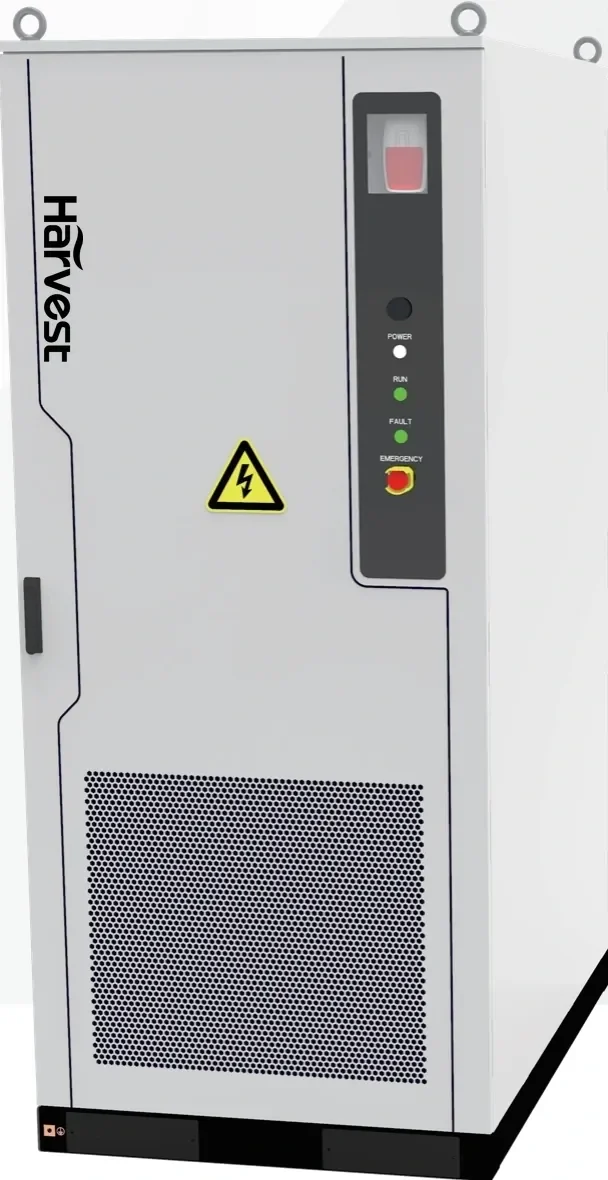
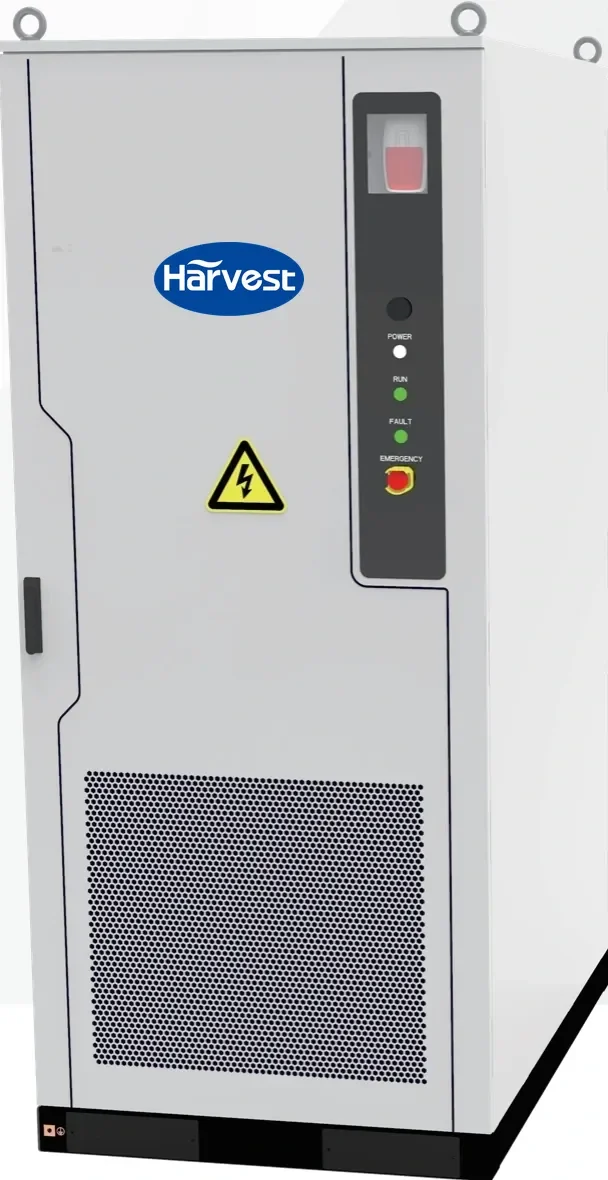
Rename ESS to BESS, name the group in full, and use the oval badge
Four changes asked for together.

The catalogue and every visible "ESS" now reads "BESS": the nav submenu and page
eyebrow ("BESS & Storage"), the products overview category, the contact form's
requirement list, the home page's ESS banner title, the route's own title and
description, and the meta description, keywords, og:description and structured
data in index.html. Where the old wording read "ESS storage", the replacement is
plain "BESS" rather than "BESS storage", which would expand to "Battery Energy
Storage System storage".

The storage page's group heading is now spelled out — "Battery Energy Storage
System", with the equivalent in Spanish and French — instead of "Energy storage".

The three product photographs carry the oval badge from the header instead of
the wordmark, and two of them moved: on the portable station it is now on the
front, centred in the black area above the display (that area is the ventilation
grille, hence the preview before choosing), and on the commercial cabinet it is
horizontal on the door, centred between the two black door lines and at the
height the old vertical wordmark occupied. The home battery keeps its position
below the round display. _tools/place-mark.py grew the mode this needed: a
designed mark in its own colours at an explicit --width, with no window to
measure. Fixing that also fixed a real bug in it — --at and --top together
silently placed the mark at the top of the photograph, because only one of the
[…]

Changed region(s): [[0.25, 0.1831, 0.5, 0.2746], [0.0625, 0.1525, 0.1562, 0.3051]]

diff --git a/src/lib/siteContent.ts b/src/lib/siteContent.ts
@@ -121,8 +121,8 @@ export const content = {
       capabilities: "Company capabilities",
       timeline: "Company timeline and service model",
       aiControl: "AI smart control solution for energy saving products",
-      essSection: "Energy storage systems",
-      essVisual: "Portable power bank and home energy storage system",
+      essSection: "Battery energy storage systems",
+      essVisual: "Portable power station, home battery and commercial storage cabinet",
       contactDetails: "Company contact details",
       pageVisual: "Harvest Eco Solutions clean energy visual",
     },
@@ -177,7 +177,7 @@ export const content = {
       eyebrow: "Products & Solutions",
       solarEyebrow: "Solar Systems",
       aiEyebrow: "AI Intelligence",
-      essTitle: "ESS for portable, residential and commercial energy storage",
+      essTitle: "BESS for portable, residential and commercial energy storage",
       essText: "Portable stations, home batteries and all-in-one cabinets that complement solar generation, remote control and energy independence.",
       title: "Products and intelligent energy solutions",
       subtitle:
@@ -217,7 +217,7 @@ export const content = {
           ],
         },
         {
-          group: "ESS",
+          group: "BESS",
           href: "/products/ess/",
           items: [
             { label: "Portable power stations", href: "/products/ess/" },
@@ -246,7 +246,7 @@ export const content = {
       subtitle: "Tell us about your market, product requirement or project scope. Our team will respond with a practical next step.",
       formTitle: "Request information",
       fields: { name: "Full name", email: "Business email", company: "Company", country: "Country / Region", type: "Requirement type", message: "Project details" },
-      options: ["Solar module sourcing", "Inverters", "ESS / Storage", "AI smart control", "Custom solution", "Other"],
+      options: ["Solar module sourcing", "Inverters", "BESS / Storage", "AI smart control", "Custom solution", "Other"],
       send: "Send inquiry",
       sending: "Sending...",
       error: "We could not submit the inquiry right now. Please try again or contact us via WhatsApp.",
@@ -280,8 +280,8 @@ export const content = {
       capabilities: "Capacidades de la empresa",
       timeline: "Cronología de la empresa y modelo de servicio",
       aiControl: "Solución de control inteligente con IA para productos de ahorro energético",
-      essSection: "Sistemas de almacenamiento de energía",
-      essVisual: "Batería portátil y sistema doméstico de almacenamiento de energía",
+      essSection: "Sistemas de almacenamiento de energía con baterías",
+      essVisual: "Estación de energía portátil, batería doméstica y armario de almacenamiento comercial",
       contactDetails: "Datos de contacto de la empresa",
       pageVisual: "Imagen de energía limpia de Harvest Eco Solutions",
     },
@@ -335,7 +335,7 @@ export const content = {
       eyebrow: "Productos y soluciones",
       solarEyebrow: "Sistemas solares",
       aiEyebrow: "Inteligencia IA",
-      essTitle: "ESS para almacenamiento energético portátil, residencial y comercial",
+      essTitle: "BESS para almacenamiento energético portátil, residencial y comercial",
       essText: "Estaciones portátiles, baterías domésticas y armarios todo en uno que complementan la generación solar, el control remoto y la independencia energética.",
       title: "Productos y soluciones energéticas inteligentes",
       subtitle: "Una cartera enfocada en generación solar, inversores, almacenamiento compacto, accesorios e inteligencia de control con IA.",
@@ -359,7 +359,7 @@ export const content = {
           ],
         },
         {
-          group: "ESS",
+          group: "BESS",
           href: "/products/ess/",
           items: [
             { label: "Estaciones de energía portátiles", href: "/products/ess/" },
@@ -388,7 +388,7 @@ export const content = {
       subtitle: "Cuéntenos su mercado, necesidad de producto o alcance del proyecto. Responderemos con un siguiente paso práctico.",
       formTitle: "Solicitar información",
       fields: { name: "Nombre completo", email: "Correo empresarial", company: "Empresa", country: "País / Región", type: "Tipo de necesidad", message: "Detalles del proyecto" },
-      options: ["Módulos solares", "Inversores", "ESS / Almacenamiento", "Control inteligente IA", "Solución personalizada", "Otro"],
+      options: ["Módulos solares", "Inversores", "BESS / Almacenamiento", "Control inteligente IA", "Solución personalizada", "Otro"],
       send: "Enviar consulta",
       sending: "Enviando...",
       error: "No pudimos enviar la consulta en este momento. Inténtelo de nuevo o contáctenos por WhatsApp.",
@@ -415,8 +415,8 @@ export const content = {
       capabilities: "Capacités de l’entreprise",
       timeline: "Chronologie de l’entreprise et modèle de service",
       aiControl: "Solution de contrôle intelligent avec IA pour produits d’économie d’énergie",
-      essSection: "Systèmes de stockage d’énergie",
-      essVisual: "Batterie portable et système domestique de stockage d’énergie",
+      essSection: "Systèmes de stockage d’énergie par batteries",
+      essVisual: "Station portable, batterie domestique et armoire de stockage commerciale",
       contactDetails: "Coordonnées de l’entreprise",
       pageVisual: "Visuel d’énergie propre de Harvest Eco Solutions",
     },
@@ -470,7 +470,7 @@ export const content = {
       eyebrow: "Produits et solutions",
       solarEyebrow: "Systèmes solaires",
       aiEyebrow: "Intelligence IA",
-      essTitle: "ESS pour le stockage portable, résidentiel et commercial",
+      essTitle: "BESS pour le stockage portable, résidentiel et commercial",
       essText: "Stations portables, batteries domestiques et armoires tout-en-un qui complètent la production solaire, le contrôle à distance et l’indépendance énergétique.",
       title: "Produits et solutions énergétiques intelligentes",
       subtitle: "Un portefeuille ciblé couvrant génération solaire, onduleurs, stockage, accessoires et contrôle intelligent par IA.",
@@ -494,7 +494,7 @@ export const content = {
           ],
         },
         {
-          group: "ESS",
+          group: "BESS",
           href: "/products/ess/",
           items: [
             { label: "Stations d’énergie portables", href: "/products/ess/" },
@@ -523,7 +523,7 @@ export const content = {
       subtitle: "Décrivez votre marché, vos besoins produit ou votre projet. Notre équipe proposera une prochaine étape concrète.",
       formTitle: "Demander des informations",
       fields: { name: "Nom complet", email: "E-mail professionnel", company: "Entreprise", country: "Pays / Région", type: "Type de besoin", message: "Détails du projet" },
-      options: ["Modules solaires", "Onduleurs", "ESS / Stockage", "Contrôle intelligent IA", "Solution personnalisée", "Autre"],
+      options: ["Modules solaires", "Onduleurs", "BESS / Stockage", "Contrôle intelligent IA", "Solution personnalisée", "Autre"],
       send: "Envoyer la demande",
       sending: "Envoi...",
       error: "Nous n’avons pas pu envoyer la demande pour le moment. Réessayez ou contactez-nous via WhatsApp.",
@@ -974,14 +974,14 @@ export const productLines: Record<ProductLineKey, Record<Language, ProductLine>>
   },
   ess: {
     en: {
-      eyebrow: "ESS & Storage",
+      eyebrow: "BESS & Storage",
       title: "Portable, residential and commercial energy storage",
       subtitle:
         "A portable station for work away from the grid, a floor-standing battery for the home, and an all-in-one cabinet for commercial and industrial sites.",
       note: "Datasheets for the units we supply are available on request.",
       groups: [
         {
-          name: "Energy storage",
+          name: "Battery Energy Storage System",
           intro:
             "Three ranges, all on lithium iron phosphate cells: a portable station, a home battery that expands to 15 units in parallel, and a liquid-cooled cabinet for larger sites.",
           cards: [
@@ -1053,14 +1053,14 @@ export const productLines: Record<ProductLineKey, Record<Language, ProductLine>>
       ],
     },
     es: {
-      eyebrow: "ESS y almacenamiento",
+      eyebrow: "BESS y almacenamiento",
       title: "Almacenamiento portátil, residencial y comercial",
       subtitle:
         "Una estación portátil para trabajar lejos de la red, una batería de suelo para el hogar y un armario todo en uno para instalaciones comerciales e industriales.",
       note: "Las fichas técnicas de los equipos que suministramos están disponibles a petición.",
       groups: [
         {
-          name: "Almacenamiento de energía",
+          name: "Sistema de almacenamiento de energía con baterías",
           intro:
             "Tres gamas, todas con celdas de litio hierro fosfato: una estación portátil, una batería doméstica que se amplía hasta 15 unidades en paralelo y un armario refrigerado por líquido para instalaciones mayores.",
           cards: [
@@ -1132,14 +1132,14 @@ export const productLines: Record<ProductLineKey, Record<Language, ProductLine>>
       ],
     },
     fr: {
-      eyebrow: "ESS et stockage",
+      eyebrow: "BESS et stockage",
       title: "Stockage portable, résidentiel et commercial",
       subtitle:
         "Une station portable pour travailler hors réseau, une batterie au sol pour la maison et une armoire tout-en-un pour les sites commerciaux et industriels.",
       note: "Les fiches techniques des appareils que nous fournissons sont disponibles sur demande.",
       groups: [
         {
-          name: "Stockage d’énergie",
+          name: "Système de stockage d’énergie par batteries",
           intro:
             "Trois gammes, toutes sur cellules lithium fer phosphate : une station portable, une batterie domestique qui s’étend jusqu’à 15 unités en parallèle et une armoire refroidie par liquide pour les sites plus importants.",
           cards: [

diff --git a/index.html b/index.html
@@ -6,8 +6,8 @@
     <meta name="theme-color" content="#0d2b28" />
     <meta name="robots" content="index, follow, max-image-preview:large, max-snippet:-1, max-video-preview:-1" />
     <meta name="googlebot" content="index, follow" />
-    <meta name="description" content="Harvest Eco Solutions Limited provides solar systems, Tier 1 solar modules, inverters, ESS storage and AI smart energy-saving control solutions for customers in 50+ countries." />
-    <meta name="keywords" content="Harvest Eco Solutions, solar modules, Tier 1 solar modules, solar inverter, ESS storage, portable power bank, home energy storage, AI energy saving, smart control solutions, photovoltaic cable, MC4 connector" />
+    <meta name="description" content="Harvest Eco Solutions Limited provides solar systems, Tier 1 solar modules, inverters, BESS and AI smart energy-saving control solutions for customers in 50+ countries." />
+    <meta name="keywords" content="Harvest Eco Solutions, solar modules, Tier 1 solar modules, solar inverter, BESS, battery energy storage, portable power station, home battery, AI energy saving, smart control solutions, photovoltaic cable, MC4 connector" />
     <meta name="author" content="Harvest Eco Solutions Limited" />
     <link rel="canonical" href="https://www.harvest.cn/" />
     <!--
@@ -29,7 +29,7 @@
     <meta property="og:type" content="website" />
     <meta property="og:site_name" content="Harvest Eco Solutions Limited" />
     <meta property="og:title" content="Harvest Eco Solutions Limited | Solar Systems & AI Smart Energy Control" />
-    <meta property="og:description" content="Professional solar systems, ESS storage, Tier 1 solar module supply and AI-enabled energy-saving solutions for global markets." />
+    <meta property="og:description" content="Professional solar systems, BESS, Tier 1 solar module supply and AI-enabled energy-saving solutions for global markets." />
     <meta property="og:url" content="https://www.harvest.cn/" />
     <!--
       og:image and twitter:image must be ABSOLUTE URLs — scrapers do not resolve
@@ -80,7 +80,7 @@
         "email": "sales@harvest.cn",
         "telephone": "+8613916169339",
         "areaServed": "Global",
-        "description": "Harvest Eco Solutions Limited provides solar systems, ESS storage, photovoltaic accessories and AI smart energy-saving control solutions for customers worldwide.",
+        "description": "Harvest Eco Solutions Limited provides solar systems, BESS, photovoltaic accessories and AI smart energy-saving control solutions for customers worldwide.",
         "knowsAbout": [
           "Solar modules",
           "Inverters",
